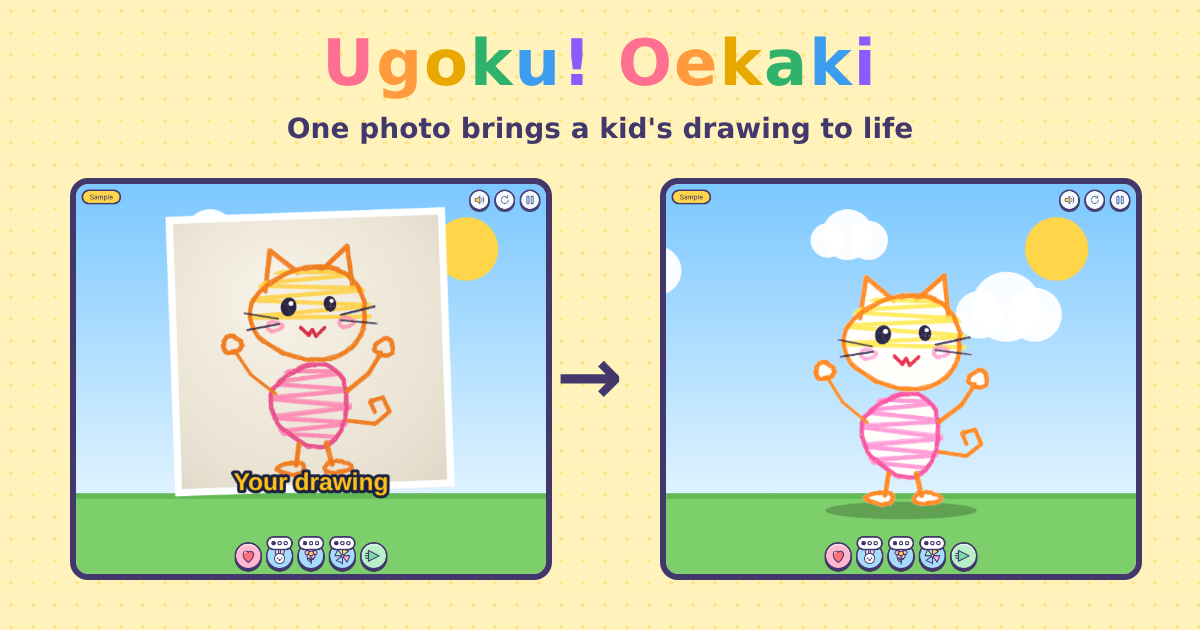
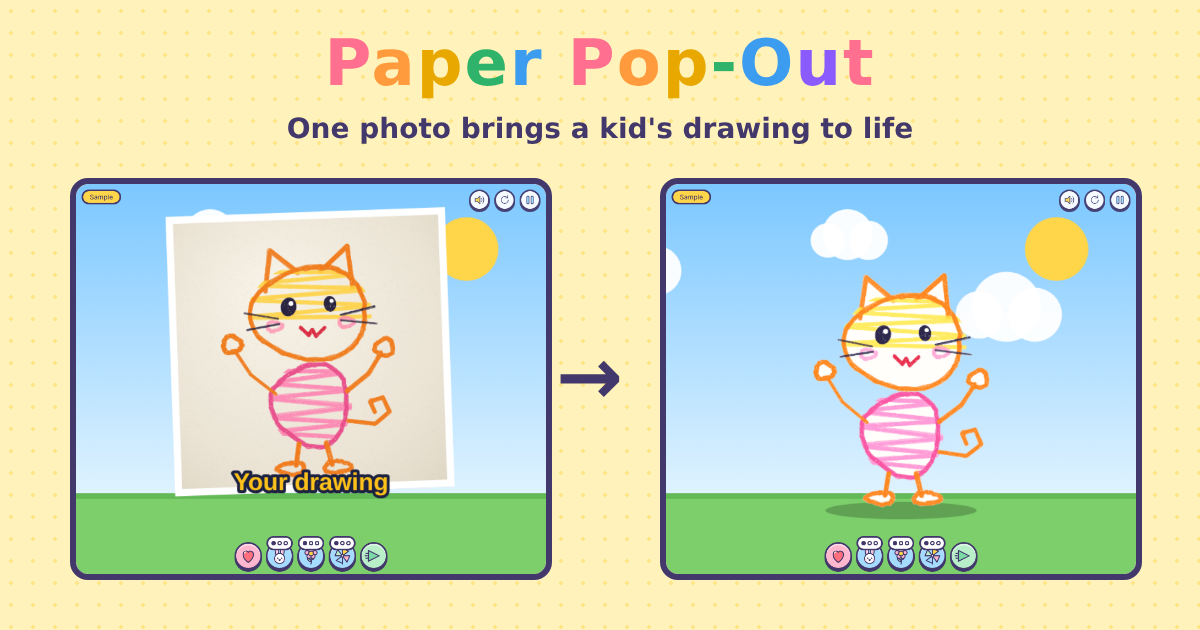
Rename English version to Paper Pop-Out
Claude-Session: https://claude.ai/code/session_01TyssKRdHAm2JWJGVJhNRBD

Changed region(s): [[0.2775, 0.0603, 0.74, 0.181]]

diff --git a/en/index.html b/en/index.html
@@ -3,11 +3,11 @@
 <head>
 <meta charset="utf-8">
 <meta name="viewport" content="width=device-width, initial-scale=1, viewport-fit=cover">
-<title>Ugoku! Oekaki – Kids’ drawings come to life</title>
+<title>Paper Pop-Out – Kids’ drawings come to life</title>
 <meta name="description" content="Snap a photo of a child’s drawing on paper – the paper disappears and the drawing comes alive on screen. A free web toy. No install, no sign-up. Photos never leave your device.">
 <meta property="og:type" content="website">
-<meta property="og:site_name" content="Ugoku! Oekaki">
-<meta property="og:title" content="Ugoku! Oekaki – One photo brings a kid’s drawing to life">
+<meta property="og:site_name" content="Paper Pop-Out">
+<meta property="og:title" content="Paper Pop-Out – One photo brings a kid’s drawing to life">
 <meta property="og:description" content="Take a photo of a drawing on paper – the paper vanishes and only the drawing starts to move. Free web toy, no install or sign-up.">
 <meta property="og:url" content="https://arimadevlab.github.io/ugoku-oekaki/en/">
 <meta property="og:locale" content="en_US">
@@ -241,8 +241,9 @@ input[type=range]::-moz-range-thumb { width: 46px; height: 46px; border: 0; back
 </head>
 <body>
 <div id="intro">
-  <h1><span style="color:#ff6f8f">U</span><span style="color:#ff9a3d">g</span><span style="color:#e8a800">o</span><span style="color:#2fb36b">k</span><span style="color:#3b9cf0">u</span><span style="color:#8a5cff">!</span> <span style="color:#ff6f8f">O</span><span style="color:#ff9a3d">e</span><span style="color:#e8a800">k</span><span style="color:#2fb36b">a</span><span style="color:#3b9cf0">k</span><span style="color:#8a5cff">i</span></h1>
-  <p>Made by arima.dev.lab</p>
+  <h1><span style="color:#ff6f8f">P</span><span style="color:#ff9a3d">a</span><span style="color:#e8a800">p</span><span style="color:#2fb36b">e</span><span style="color:#3b9cf0">r</span> <span style="color:#ff6f8f">P</span><span style="color:#ff9a3d">o</span><span style="color:#e8a800">p</span><span style="color:#2fb36b">-</span><span style="color:#3b9cf0">O</span><span style="color:#8a5cff">u</span><span style="color:#ff6f8f">t</span></h1>
+  <p>Kids’ drawings come to life</p>
+  <small style="opacity:.6">Made by arima.dev.lab</small>
   <button class="btn3d" id="introgo" type="button">Start</button>
   <a class="langlink" href="../" lang="ja" hreflang="ja">日本語</a>
   <small>Your drawing’s photo stays on this device. Nothing is uploaded.</small>
@@ -310,7 +311,7 @@ input[type=range]::-moz-range-thumb { width: 46px; height: 46px; border: 0; back
 <div class="app">
   <header class="top">
     <div class="in">
-      <h1 class="logo"><span style="--c:#ff6f8f">U</span><span style="--c:#ff9a3d">g</span><span style="--c:#e8a800">o</span><span style="--c:#2fb36b">k</span><span style="--c:#3b9cf0">u</span><span style="--c:#8a5cff">!</span> <span style="--c:#ff6f8f">O</span><span style="--c:#ff9a3d">e</span><span style="--c:#e8a800">k</span><span style="--c:#2fb36b">a</span><span style="--c:#3b9cf0">k</span><span style="--c:#8a5cff">i</span></h1>
+      <h1 class="logo"><span style="--c:#ff6f8f">P</span><span style="--c:#ff9a3d">a</span><span style="--c:#e8a800">p</span><span style="--c:#2fb36b">e</span><span style="--c:#3b9cf0">r</span> <span style="--c:#ff6f8f">P</span><span style="--c:#ff9a3d">o</span><span style="--c:#e8a800">p</span><span style="--c:#2fb36b">-</span><span style="--c:#3b9cf0">O</span><span style="--c:#8a5cff">u</span><span style="--c:#ff6f8f">t</span></h1>
       <div class="topbtns"><button class="btn3d icobtn" id="pal" type="button" aria-label="Change colors" style="--c:var(--pnk)"><svg><use href="#i-palette"/></svg></button><button class="btn3d icobtn" id="help" type="button" aria-label="For parents">?</button></div>
     </div>
   </header>

diff --git a/README.md b/README.md
@@ -2,7 +2,7 @@
 
 https://arimadevlab.github.io/ugoku-oekaki/
 
-English version: https://arimadevlab.github.io/ugoku-oekaki/en/
+English version (Paper Pop-Out): https://arimadevlab.github.io/ugoku-oekaki/en/
 
 つくった人：arima.dev.lab
 
@@ -33,7 +33,7 @@ English version: https://arimadevlab.github.io/ugoku-oekaki/en/
 
 ## English
 
-**Ugoku! Oekaki** ("Moving Drawings") – https://arimadevlab.github.io/ugoku-oekaki/en/
+**Paper Pop-Out** (Japanese title: うごく！おえかき / Ugoku! Oekaki) – https://arimadevlab.github.io/ugoku-oekaki/en/
 
 Snap a photo of a child's drawing on paper. The paper disappears and the drawing comes alive on screen: it hops, sways, spins and dances, follows lines you trace with your finger, makes friends, eats food you draw, and can even become a police car with lights and a siren. You can record a short video and save it.
 
